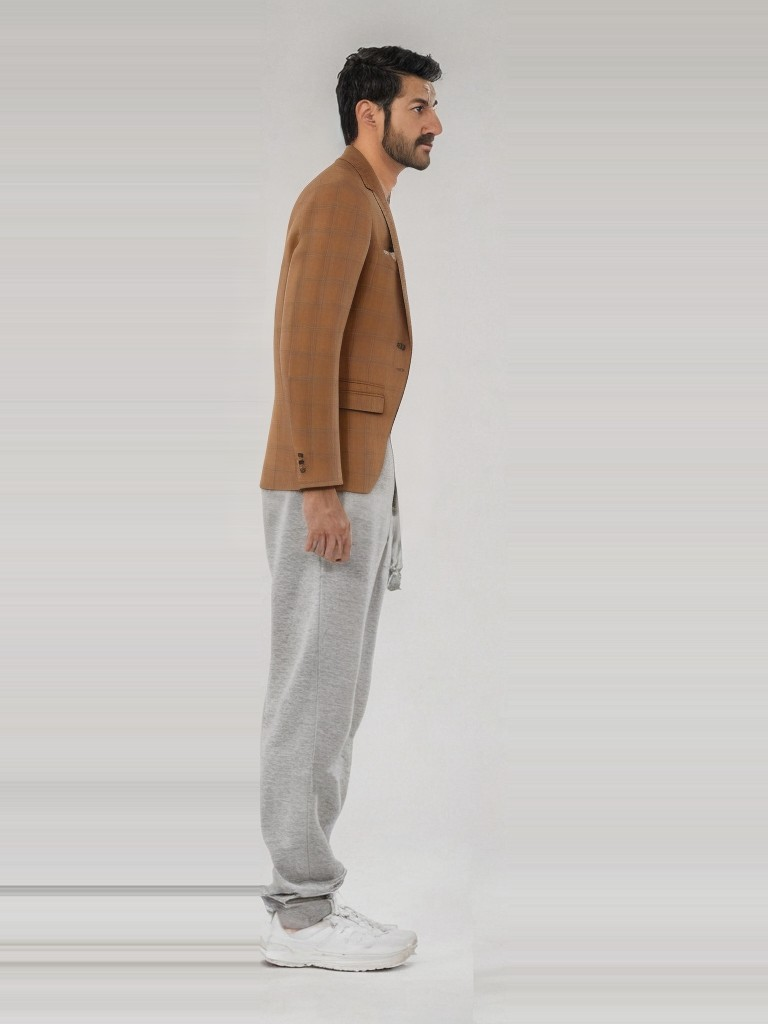
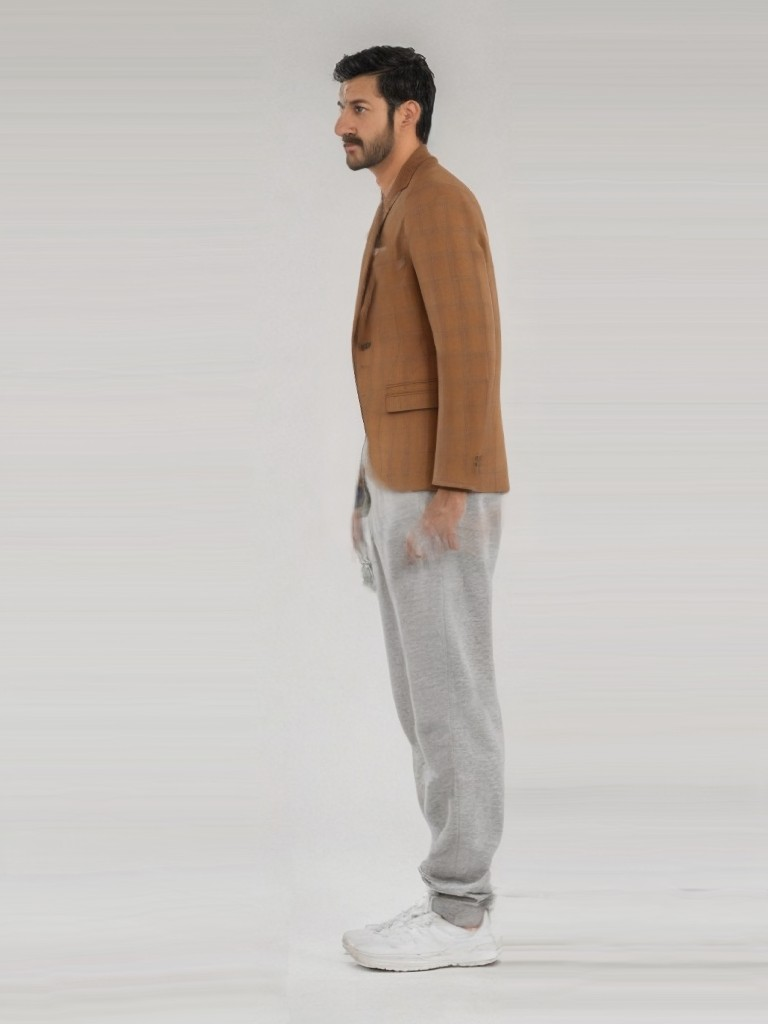
feat(spin): ready-made set with RIFE tweens (5 -> 20 frames)
Interim set until a real turn video is recorded; closing transition
(mirrored 3/4 -> 3/4) still shows a double face.

Changed region(s): [[0.0, 0.0312, 0.6875, 0.9688], [0.5625, 0.9375, 0.6562, 0.9688]]

diff --git a/tools/make_spin_set.py b/tools/make_spin_set.py
@@ -7,6 +7,9 @@ Kullanım:
 Kişi klasöründeki görseller ada göre sıralanır (01_..., 02_...). Adı "back" içeren ya da yüzü görünmeyen
 karelerde kıyafetin arka görseli kullanılır. --mirror, son kare hariç karelerin aynalanmış kopyalarını
 ters sırada ekleyerek yarım turu tam tura tamamlar (ön34, yan, arka → ön34, yan, arka, yan', ön34').
+--tweens 3: komşu kareler (ve son→ilk) arasına RIFE ile ara kareler ekler; dönüş akıcılaşır.
+--keys-from <klasör>: giydirme yapmadan o klasördeki frame_*.jpg'leri ana kare olarak kullanır
+    (örn. mevcut seti yeniden giydirmeden ara kareli hâle getirmek için; kişi/ön görsel yok sayılır).
 """
 import argparse
 import glob
@@ -25,8 +28,10 @@ from engine import CatVTONEngine  # noqa: E402
 
 def main() -> None:
     ap = argparse.ArgumentParser()
-    ap.add_argument("people")
-    ap.add_argument("front")
+    ap.add_argument("people", nargs="?")
+    ap.add_argument("front", nargs="?")
+    ap.add_argument("--tweens", type=int, default=0, help="ana kareler arası RIFE ara kare sayısı (1, 3, 7)")
+    ap.add_argument("--keys-from")
     ap.add_argument("--back")
     ap.add_argument("--mirror", action="store_true")
     ap.add_argument("--category", default="upper")
@@ -34,6 +39,15 @@ def main() -> None:
     ap.add_argument("--title-tr", default="Erkek manken · Blazer")
     ap.add_argument("--title-en", default="Male mannequin · Blazer")
     a = ap.parse_args()
+
+    if a.keys_from:
+        keys = sorted(glob.glob(os.path.join(a.keys_from, "frame_*.jpg")), key=lambda p: int(p.rsplit("_", 1)[1][:-4]))
+        results = [Image.open(p).convert("RGB") for p in keys]
+        if a.tweens:
+            from interpolator import RifeInterpolator
+            results = expand_with_tweens(results, a.tweens, RifeInterpolator.from_hub().between)
+        write_set(results, a)
+        return
 
     paths = sorted(p for p in glob.glob(os.path.join(a.people, "*")) if p.lower().endswith((".png", ".jpg", ".jpeg")))
     if not paths:
@@ -53,7 +67,24 @@ def main() -> None:
 
     if a.mirror and len(results) > 1:
         results += [im.transpose(Image.FLIP_LEFT_RIGHT) for im in reversed(results[:-1])]
+    if a.tweens and len(results) > 1:
+        results = expand_with_tweens(results, a.tweens, engine.interpolate)
+    write_set(results, a)
 
+
+def expand_with_tweens(keys: list, n: int, between) -> list:
+    """Her komşu ana kare çiftinin ve son→ilk çiftinin arasına `n` ara kare koyar (tur kapanır)."""
+    size = keys[0].size
+    keys = [k.resize(size, Image.LANCZOS) if k.size != size else k for k in keys]
+    out = []
+    for i, k in enumerate(keys):
+        out.append(k)
+        out += between(k, keys[(i + 1) % len(keys)], n)
+    return out
+
+
+def write_set(results: list, a) -> None:
+    # Kareler önce belleğe alındığı için aynı klasöre yazmak güvenli
     os.makedirs(a.out, exist_ok=True)
     for old in glob.glob(os.path.join(a.out, "frame_*.jpg")):
         os.remove(old)
